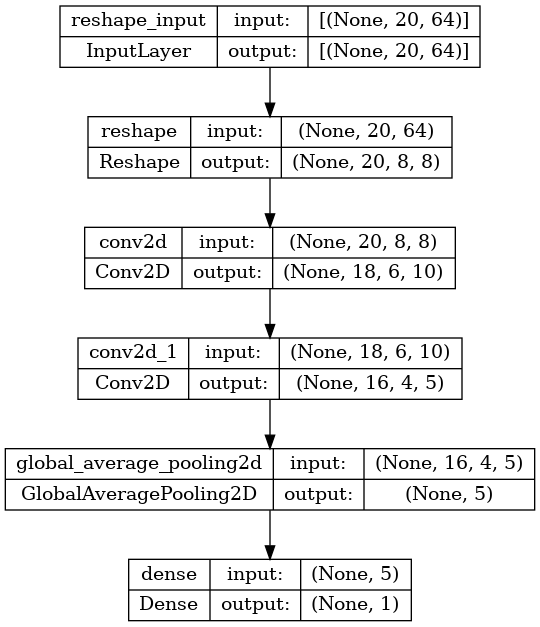
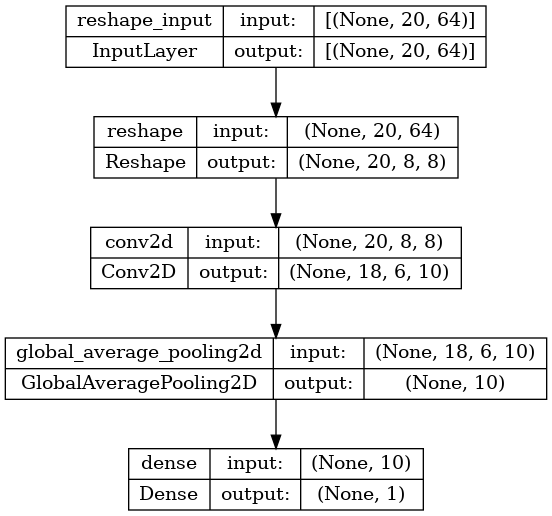
reduce cnn

Changed region(s): [[0.0, 0.0, 1.0, 0.9922]]

diff --git a/training/train_cnn.py b/training/train_cnn.py
@@ -31,7 +31,7 @@ model.add(Reshape((20,8,8), input_shape=(20,64)))
 model.add(Conv2D(10,(3,3), activation='relu'))
 # model.add(Reshape((-1,4)))
 # model.add(LSTM(16, unroll=False, batch_size=1)) # the input of the lstm layer is 20 frames with 64 values each (as the ToF records in 8x8)
-model.add(Conv2D(5,(3,3), activation='relu'))
+# model.add(Conv2D(5,(3,3), activation='relu'))
 model.add(GlobalAveragePooling2D())
 model.add(Dense(1, activation='sigmoid')) # Sigmoid-Aktivierung für binäre Klassifikation
 model.summary()
